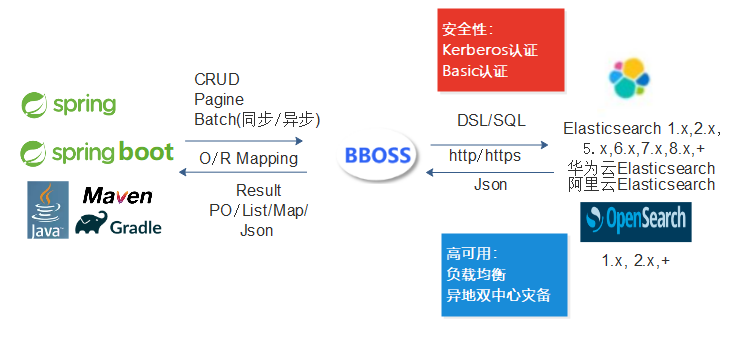
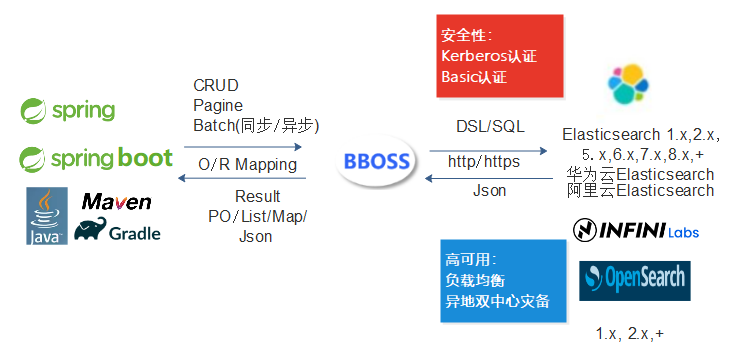
增加对easysearch 1.x,2.x支持

diff --git a/bboss-elasticsearch-rest/src/main/java/org/frameworkset/elasticsearch/ESVersionInfo.java b/bboss-elasticsearch-rest/src/main/java/org/frameworkset/elasticsearch/ESVersionInfo.java
@@ -28,7 +28,7 @@ import org.slf4j.LoggerFactory;
  */
 public class ESVersionInfo {
     private static final String ES_VERSION = "7.5.6";
-    private static final String ES_RELEASEDATE = "20260325";
+    private static final String ES_RELEASEDATE = "20260409";
     private static Logger logger = LoggerFactory.getLogger(ESVersionInfo.class);
     static {
         logger.info(getVersionDescription());

diff --git a/bboss-elasticsearch-rest/src/main/java/org/frameworkset/elasticsearch/client/ElasticSearchRestClient.java b/bboss-elasticsearch-rest/src/main/java/org/frameworkset/elasticsearch/client/ElasticSearchRestClient.java
@@ -326,7 +326,7 @@ public class ElasticSearchRestClient implements ElasticSearchClient {
 		}
 		if (esVersion != null) {
 
-			if(distribution != null && 	distribution.toLowerCase().indexOf("opensearch") >= 0){
+			if(distribution != null && 	(distribution.toLowerCase().indexOf("easysearch") >= 0 || distribution.toLowerCase().indexOf("opensearch") >= 0 )){
 				version = 7;
 				upper7 = true;
 			}

diff --git a/README_zh_CN.md b/README_zh_CN.md
@@ -1,45 +1,54 @@
 # Elasticsearch Bboss
 a good elasticsearch orm Java rest client. It operates and accesses elasticsearch in a way similar to mybatis.
 
-ES小白分分钟上手，功能丰富，涵盖Elasticsearch所有功能，多集群多数据源,自动索引托管，多种分页机制，傻瓜级CRUD，脚本，sql，jdbc，高亮，权重，聚合，IP，GEO地理位置，父子嵌套，应有尽有
+ES小白分分钟上手，功能丰富，涵盖Elasticsearch/Easysearch/Opensearch所有功能，多集群多数据源,自动索引托管，多种分页机制，傻瓜级CRUD，脚本，sql，jdbc，高亮，权重，聚合，IP，GEO地理位置，父子嵌套，应有尽有
+
 ![](https://esdoc.bbossgroups.com/images/client-Elasticsearch.png)
-https://esdoc.bbossgroups.com/#/README
+
+<https://esdoc.bbossgroups.com/#/README>
 
 # Environmental requirements
 
 JDK requirement: JDK 1.8+
+
 Elasticsearch version requirements: 1.X,2.X,5.X,6.X,7.x,8.x,9.x,+
+
+Easysearch: 1.x,2.x
+
+Opensearch: 1.x,2.x
+
+Spring booter 1.x,2.x,3.x,+
+
 # bboss兼容性
 
-| bboss | Elasticsearch | spring boot |
-| ----- |---------------| ----------- |
-| all   | 1.x           | 1.x,2.x,3.x,+     |
-| all   | 2.x           | 1.x,2.x,3.x,+     |
-| all   | 3.x           | 1.x,2.x,3.x,+     |
-| all   | 5.x           | 1.x,2.x,3.x,+     |
-| all   | 6.x           | 1.x,2.x,3.x,+     |
-| all   | 7.x           | 1.x,2.x,3.x,+     |
-| all   | 8.x           | 1.x,2.x,3.x,+     |
-| all   | 9.x           | 1.x,2.x,3.x,+     |
+| bboss | Elasticsearch | Easysearch | Opensearch | spring boot |
+| ----- |---------------| ----------- | ----------- | ----------- |
+| all   | 1.x           |            |            | 1.x,2.x,3.x,+    |
+| all   | 2.x           | 2.x        | 2.x        | 1.x,2.x,3.x,+    |
+| all   | 3.x           |            |            | 1.x,2.x,3.x,+    |
+| all   | 5.x           |            |            | 1.x,2.x,3.x,+    |
+| all   | 6.x           |            |            | 1.x,2.x,3.x,+    |
+| all   | 7.x           |            |            | 1.x,2.x,3.x,+     |
+| all   | 8.x           |            |            | 1.x,2.x,3.x,+     |
+| all   | 9.x           |            |            | 1.x,2.x,3.x,+     |
 
 # 快速开始bboss
 
 https://esdoc.bbossgroups.com/#/quickstart
+
+
 # Build from source code
+
 Build from source code guide:
 
 https://esdoc.bbossgroups.com/#/bboss-build
 
 
 # Elasticsearch Java Demos
-
-The following Demo and related documentation is compatible with Elasticsearch 2. X,5. X,6. X,7.x,8.x,9.x,+ versions
-
+The following Demo and related documentation is compatible with Elasticsearch 1.x,2.X,5.X,6.X,7.x,8.x,9.x,+ versions
 ## Elasticsearch demo for Java project:
-
 https://github.com/bbossgroups/elasticsearch-example
-
-## Elasticsearch demo for spring booter 1.x,2.x
+## Elasticsearch demo for spring booter 1.x,2.x,3.x
 
 github
 
@@ -59,17 +68,15 @@ https://gitee.com/bboss/springboot3-elasticsearch-webservice
 
 https://gitee.com/bboss/eshelloword-spring-boot3-starter
 
-# Elasticsearch Java rest client bboss fast integration documentation
-
+# Fast integration bboss documentation
 [Spring boot integration ElasticSearch case sharing](https://esdoc.bbossgroups.com/#/spring-booter-with-bboss)
 
 [Quickly integrate Elasticsearch Restful API case sharing](https://esdoc.bbossgroups.com/#/common-project-with-bboss)
 
-[Quick Start](https://esdoc.bbossgroups.com/#/quickstart)
 
 # Elasticsearch BBoss Developer Tutorial
 
-[High-performance elasticsearch ORM library bboss use introduction](https://my.oschina.net/bboss/blog/1556866)
+[High-performance elasticsearch ORM library bboss use introduction](https://esdoc.bbossgroups.com/#/development)
 
 # 联系我们
 
@@ -103,7 +110,6 @@ QQ交流群：21220580,166471282,3625720,154752521,166471103,166470856
 <img src="https://esdoc.bbossgroups.com/images/wchat.png"   height="200" width="200" />
 
 非常感谢您对开源精神的支持！❤您的捐赠将用于bboss社区建设、QQ群年费、网站云服务器租赁费用。
-
 
 
 ## License

diff --git a/README.md b/README.md
@@ -1,7 +1,7 @@
 # Elasticsearch Bboss
 a good elasticsearch orm Java rest client. It operates and accesses elasticsearch in a way similar to mybatis.
 
-ES小白分分钟上手，功能丰富，涵盖Elasticsearch所有功能，多集群多数据源,自动索引托管，多种分页机制，傻瓜级CRUD，脚本，sql，jdbc，高亮，权重，聚合，IP，GEO地理位置，父子嵌套，应有尽有
+ES小白分分钟上手，功能丰富，涵盖Elasticsearch/Easysearch/Opensearch所有功能，多集群多数据源,自动索引托管，多种分页机制，傻瓜级CRUD，脚本，sql，jdbc，高亮，权重，聚合，IP，GEO地理位置，父子嵌套，应有尽有
 
 ![](https://esdoc.bbossgroups.com/images/client-Elasticsearch.png)
 
@@ -13,20 +13,24 @@ JDK requirement: JDK 1.8+
 
 Elasticsearch version requirements: 1.X,2.X,5.X,6.X,7.x,8.x,9.x,+
 
+Easysearch: 1.x,2.x
+
+Opensearch: 1.x,2.x
+
 Spring booter 1.x,2.x,3.x,+
 
 # bboss兼容性
 
-| bboss | Elasticsearch | spring boot |
-| ----- |---------------| ----------- |
-| all   | 1.x           | 1.x,2.x,3.x,+    |
-| all   | 2.x           | 1.x,2.x,3.x,+    |
-| all   | 3.x           | 1.x,2.x,3.x,+    |
-| all   | 5.x           | 1.x,2.x,3.x,+    |
-| all   | 6.x           | 1.x,2.x,3.x,+    |
-| all   | 7.x           | 1.x,2.x,3.x,+     |
-| all   | 8.x           | 1.x,2.x,3.x,+     |
-| all   | 9.x           | 1.x,2.x,3.x,+     |
+| bboss | Elasticsearch | Easysearch | Opensearch | spring boot |
+| ----- |---------------| ----------- | ----------- | ----------- |
+| all   | 1.x           |            |            | 1.x,2.x,3.x,+    |
+| all   | 2.x           | 2.x        | 2.x        | 1.x,2.x,3.x,+    |
+| all   | 3.x           |            |            | 1.x,2.x,3.x,+    |
+| all   | 5.x           |            |            | 1.x,2.x,3.x,+    |
+| all   | 6.x           |            |            | 1.x,2.x,3.x,+    |
+| all   | 7.x           |            |            | 1.x,2.x,3.x,+     |
+| all   | 8.x           |            |            | 1.x,2.x,3.x,+     |
+| all   | 9.x           |            |            | 1.x,2.x,3.x,+     |
 
 # 快速开始bboss
 
